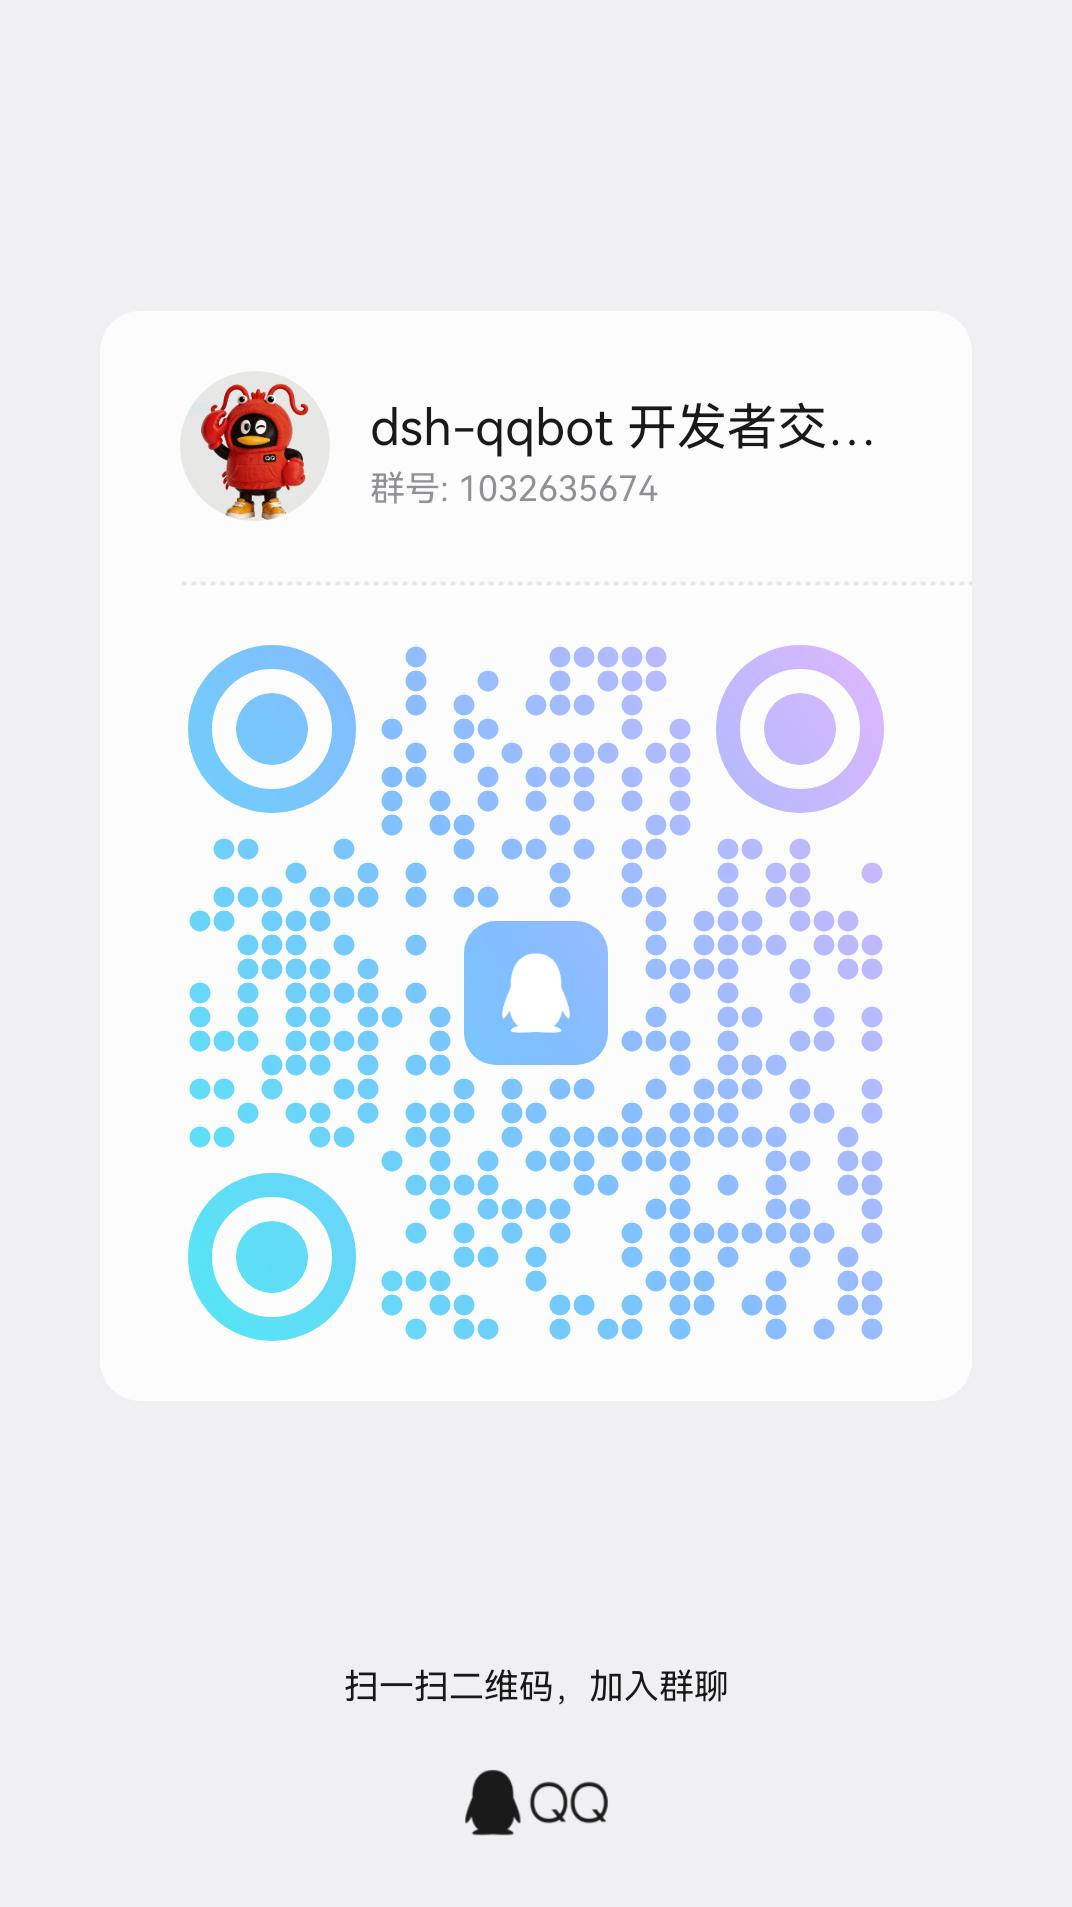
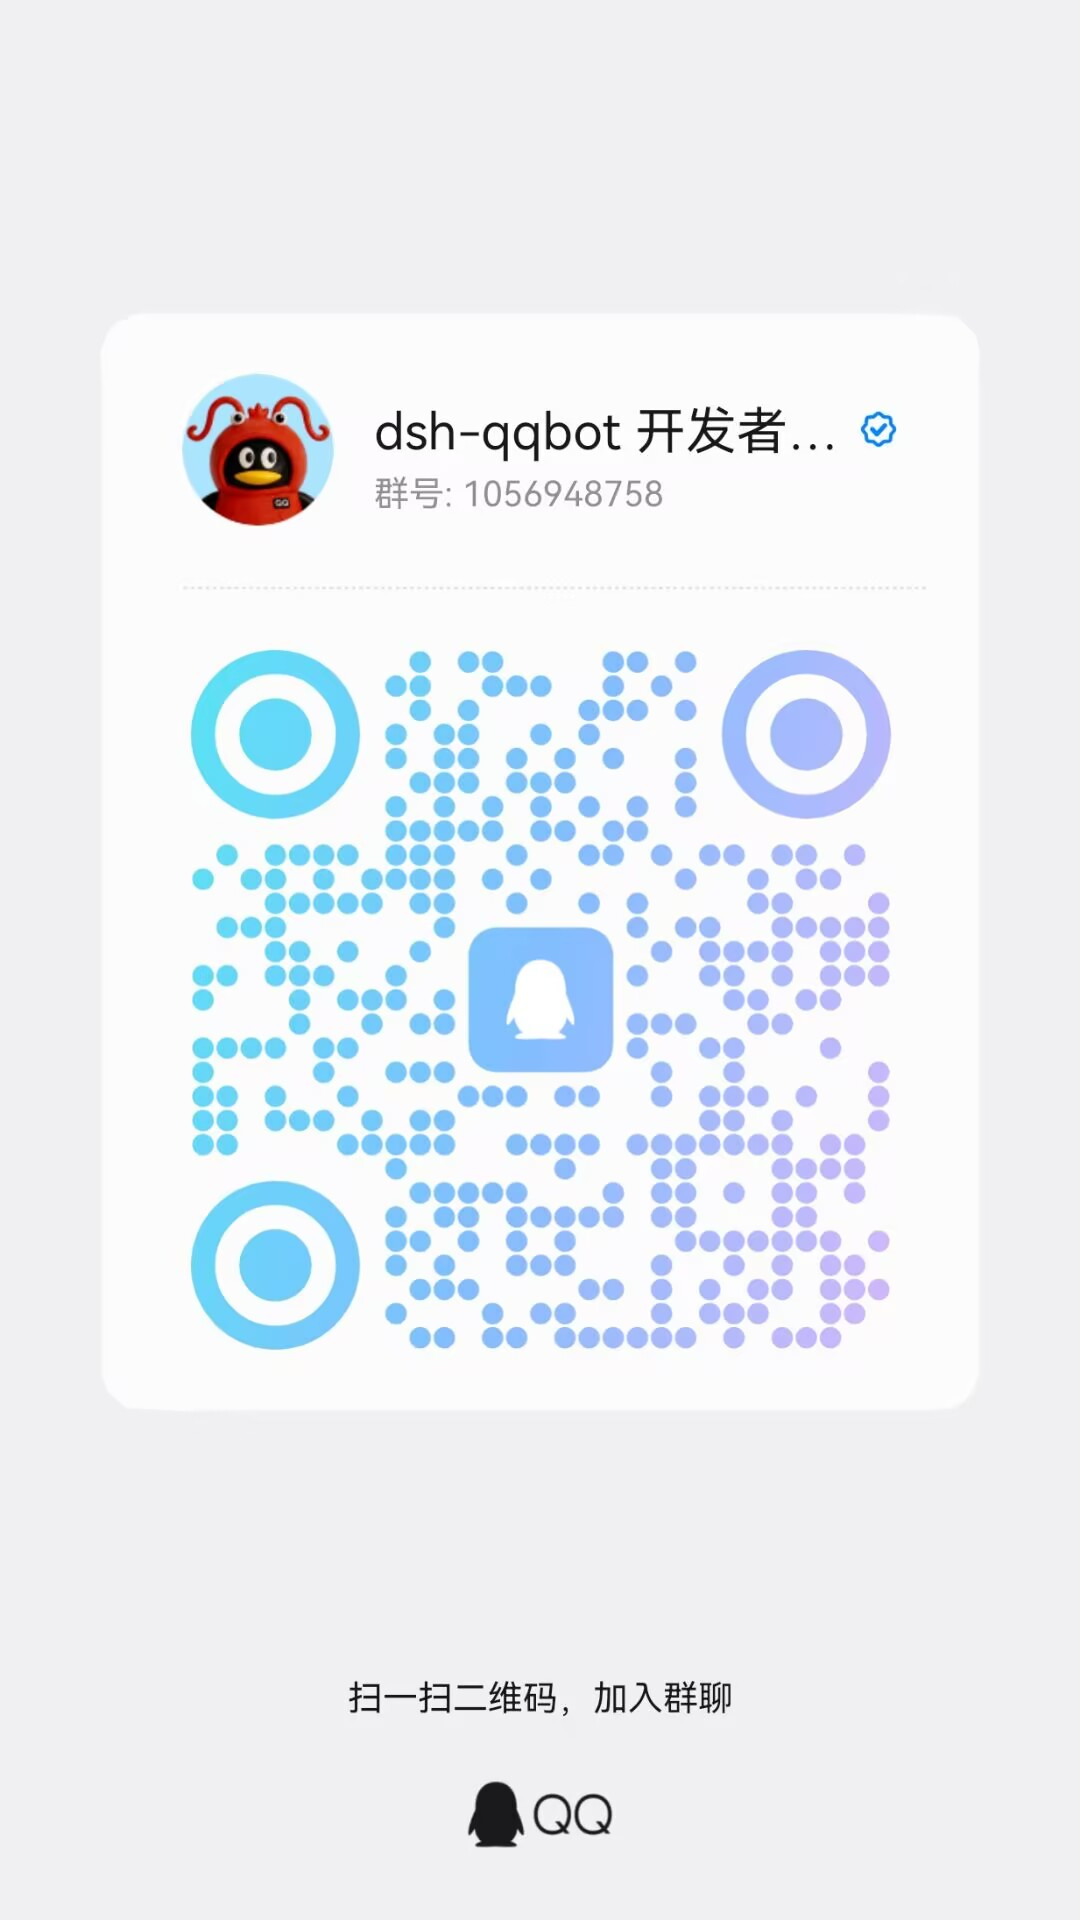
docs: update readme

diff --git a/README_EN.md b/README_EN.md
@@ -17,7 +17,7 @@ Scan to join the QQ group / channel
 
 <table>
 <tr>
-<td align="center" width="50%"><img src="./assets/docs/qqgroup.jpg" height="360" alt="QQ Group QR Code" /><br /><b>QQ Developer Group</b><br /><sub>Group ID: 1032635674</sub></td>
+<td align="center" width="50%"><img src="./assets/docs/qqgroup.jpg" height="360" alt="QQ Group QR Code" /><br /><b>QQ Developer Group</b><br /><sub>Group 1: 1032635674 · Group 2: 1056948758</sub></td>
 <td align="center" width="50%"><img src="./assets/docs/qqchannel.jpg" height="360" alt="QQ Channel QR Code" /><br /><b>QQ Developer Channel</b><br /><sub>Channel ID: 20dnumts4z</sub></td>
 </tr>
 </table>

diff --git a/README.md b/README.md
@@ -17,7 +17,7 @@
 
 <table>
 <tr>
-<td align="center" width="50%"><img src="./assets/docs/qqgroup.jpg" height="360" alt="QQ 群二维码" /><br /><b>QQ 开发者交流群</b><br /><sub>群号: 1032635674</sub></td>
+<td align="center" width="50%"><img src="./assets/docs/qqgroup.jpg" height="360" alt="QQ 群二维码" /><br /><b>QQ 开发者交流群</b><br /><sub>1群: 1032635674 · 2群: 1056948758</sub></td>
 <td align="center" width="50%"><img src="./assets/docs/qqchannel.jpg" height="360" alt="QQ 频道二维码" /><br /><b>QQ 开发者社区频道</b><br /><sub>频道号: 20dnumts4z</sub></td>
 </tr>
 </table>
